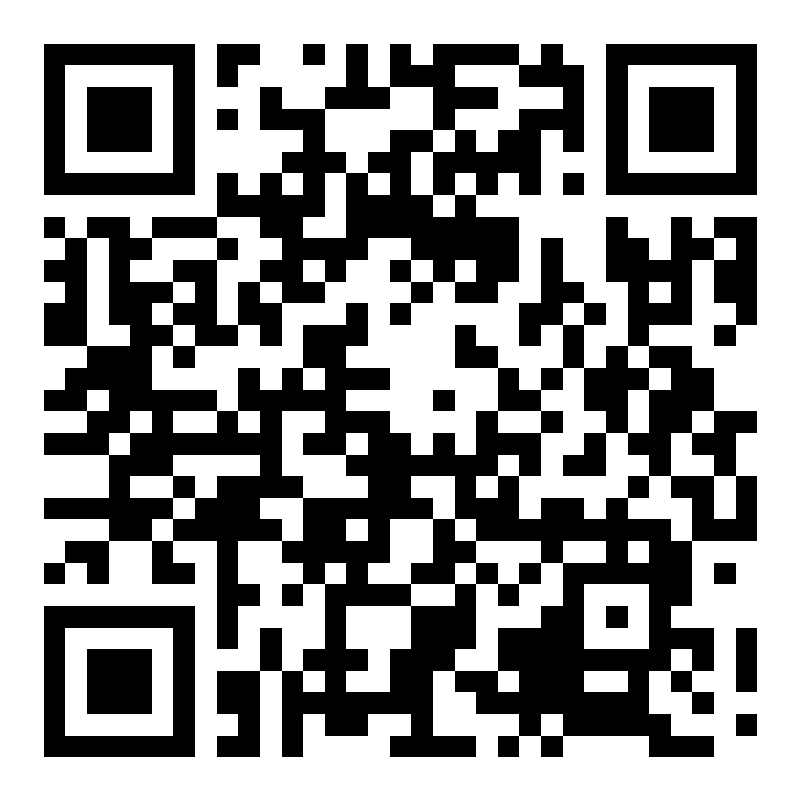
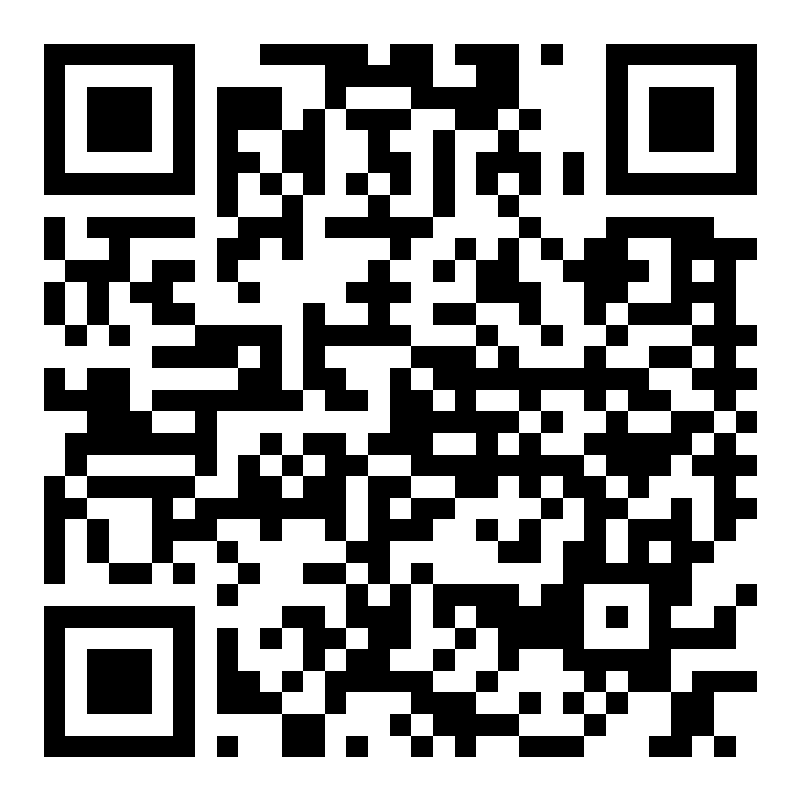
fixd cvCompos

diff --git a/Components/Header.js b/Components/Header.js
@@ -1,7 +1,7 @@
 import Link from 'next/link';
 import CvButtons from  '../Components/Cvbuttons';
 import ProfilePic from '../Components/ProfilePic'
-import QrImage from '../public/Assests/webP/MjQrCode.png'
+import QrImage from '../public/Assests/webP/MJContactCard.png'
 import Signa from '../public/Assests/webP/Signa.svg'
 import Image from 'next/image';
 
